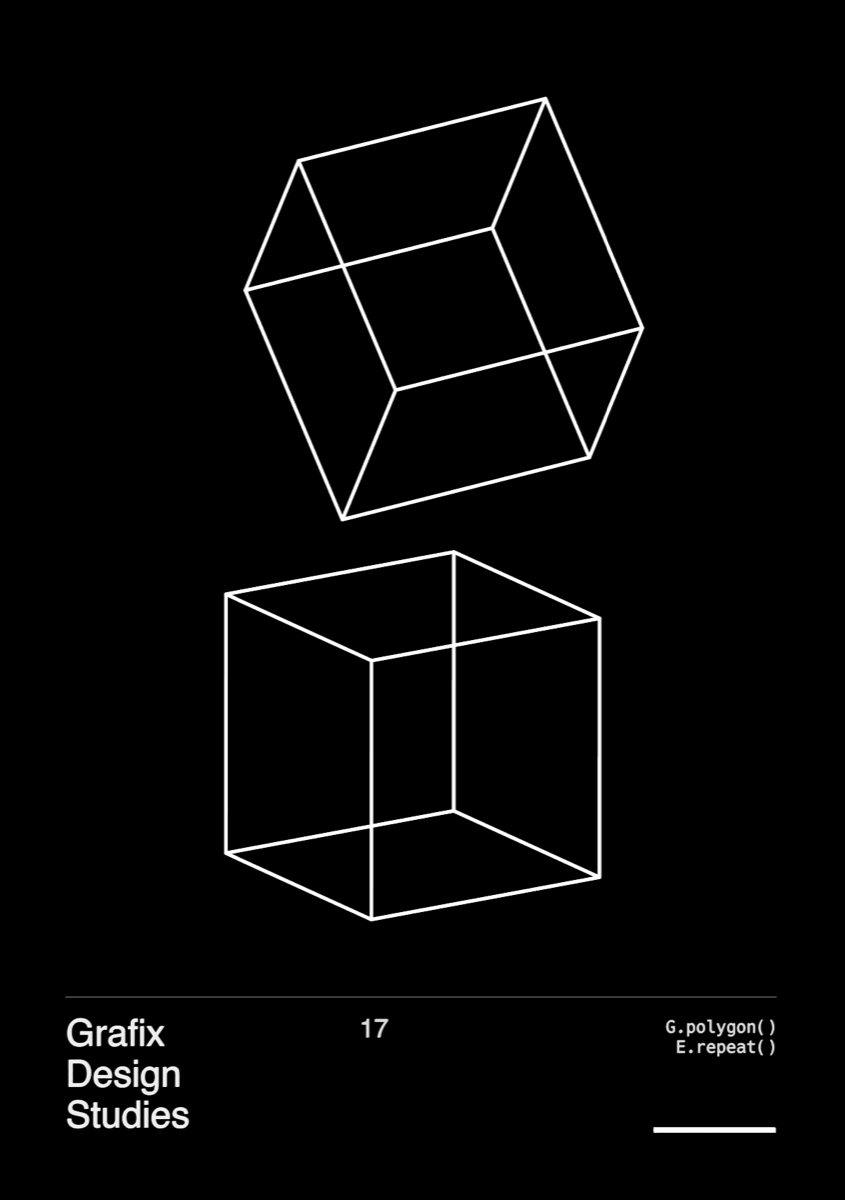
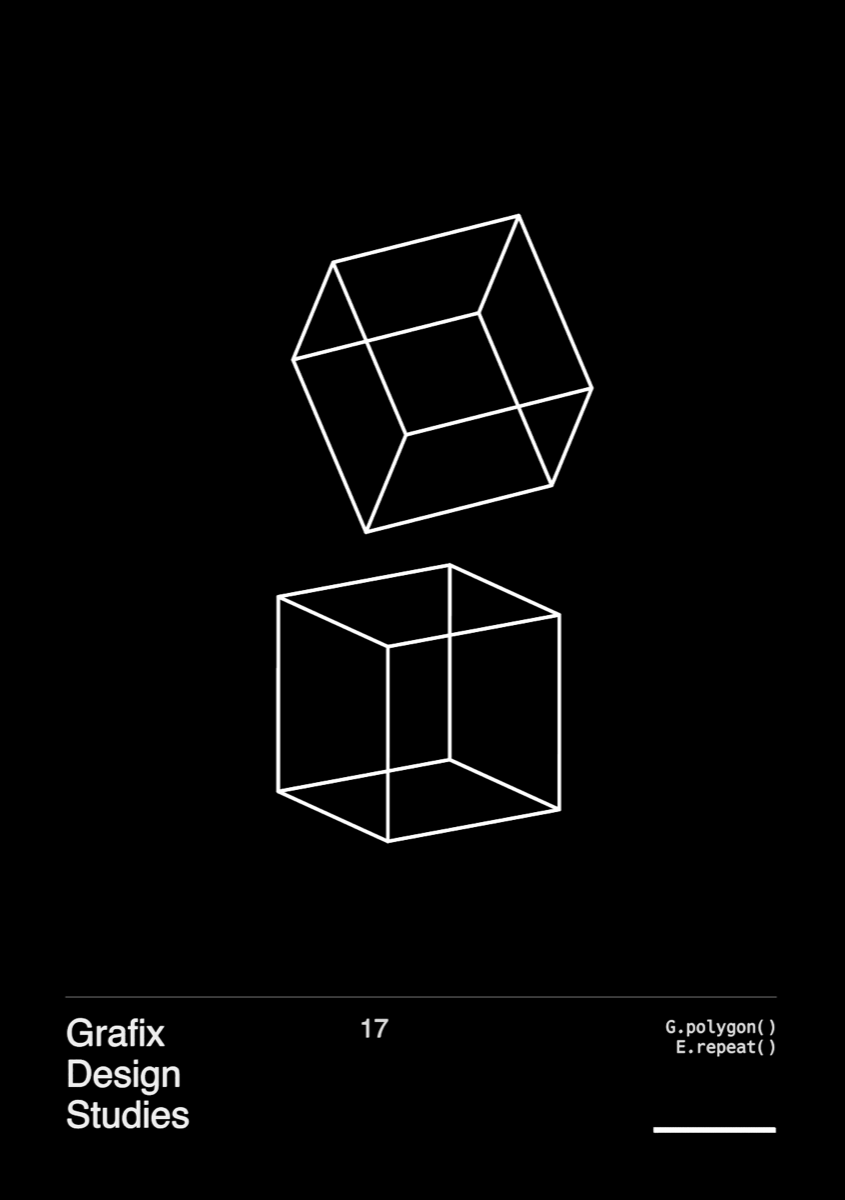
📝

diff --git a/sketch/readme/grn/17.py b/sketch/readme/grn/17.py
@@ -12,8 +12,8 @@ def draw(t):
     g = G.polyhedron(
         activate=True,
         type_index=1,
-        center=(76.63, 132.065, 0.0),
-        scale=82.034,
+        center=(76.63, 125.543, 0.0),
+        scale=61.695,
     )
 
     e = E.rotate(
@@ -27,7 +27,7 @@ def draw(t):
         cumulative_scale=False,
         cumulative_offset=False,
         cumulative_rotate=False,
-        offset=(0.0, -76.087, 0.0),
+        offset=(0.0, -58.696, 0.0),
         rotation_step=(-48.913000000000004, -115.435, 40.645),
         scale=(1.0, 1.0, 1.0),
         auto_center=True,
